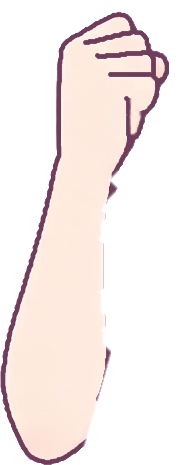
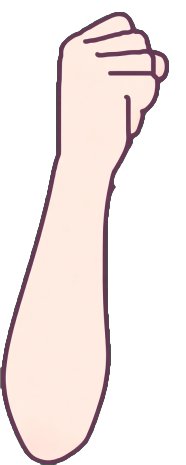
v3: 아래팔+주먹(hand_r)을 양쪽 외곽선 있는 생성 그림으로 교체

Changed region(s): [[0.1075, 0.0301, 0.914, 0.9634], [0.0, 0.6323, 0.1882, 0.9935], [0.1882, 0.9634, 0.4032, 1.0]]

diff --git a/tools/v3/regen_hand.py b/tools/v3/regen_hand.py
@@ -1,0 +1,27 @@
+"""아래팔+주먹(hand_r)을 GenerateImage로 다시 만든 그림(raw/hand_r_regen.jpg, 양쪽 외곽선 있음)으로 바꿈.
+옛 조각은 오른쪽 가장자리가 선 없이 잘려 있어서, 팔을 -34도 내리면 머리카락 위에 뭉개져 보였음.
+코드는 초록 배경 빼기(부드러운 알파 매팅)·옛 조각 상자에 맞춘 크기 조절·배치만 함. clean_edges.py 전에 실행.
+사용: python3 tools/v3/regen_hand.py [parts 폴더]"""
+import sys, os, numpy as np, cv2
+from PIL import Image
+from scipy import ndimage
+HERE=os.path.dirname(os.path.abspath(__file__))
+P=sys.argv[1] if len(sys.argv)>1 else f'{HERE}/../../public/v3-demo/parts'
+src=np.array(Image.open(f'{HERE}/raw/hand_r_regen.jpg').convert('RGB')).astype(np.float32)
+bg=np.median(src[:20].reshape(-1,3),0)
+r,g,b=src[...,0],src[...,1],src[...,2]
+gness=g-np.maximum(r,b)                      # 초록 정도
+bgg=bg[1]-max(bg[0],bg[2])
+a=np.clip(1-(gness-10)/(bgg-10),0,1)         # 초록이면 0, 살·선이면 1, 사이는 부드럽게
+A=a>0.5; lb,n=ndimage.label(A); A=lb==(np.argmax(ndimage.sum(A,lb,range(1,n+1)))+1); A=ndimage.binary_fill_holes(A)
+a=np.where(cv2.dilate(A.astype(np.uint8),np.ones((5,5),np.uint8))>0,a,0); a=np.maximum(a,ndimage.binary_erosion(A,iterations=2))
+# 초록 번짐 제거: 반투명 가장자리 색에서 초록 빼기
+spill=np.clip(g-np.maximum(r,b),0,None); src[...,1]-=spill*(1-a)
+ys,xs=np.where(a>0.5); y0,y1,x0,x1=ys.min(),ys.max()+1,xs.min(),xs.max()+1
+old=np.array(Image.open(f'{P}/hand_r.png').convert('RGBA')); oa=old[...,3]>128
+oy,ox=np.where(oa); Y0,Y1,X0,X1=oy.min(),oy.max()+1,ox.min(),ox.max()+1
+rgba=np.dstack([np.clip(src,0,255),a*255])[y0:y1,x0:x1]
+fit=cv2.resize(rgba,(X1-X0,Y1-Y0),interpolation=cv2.INTER_AREA)   # 큰 그림을 줄임(계단 없이)
+out=np.zeros_like(old,dtype=np.float32); out[Y0:Y1,X0:X1]=fit
+Image.fromarray(np.clip(out,0,255).round().astype(np.uint8)).save(f'{P}/hand_r.png',optimize=True)
+print('hand_r ok',(X1-X0,Y1-Y0),'<-',(x1-x0,y1-y0))
